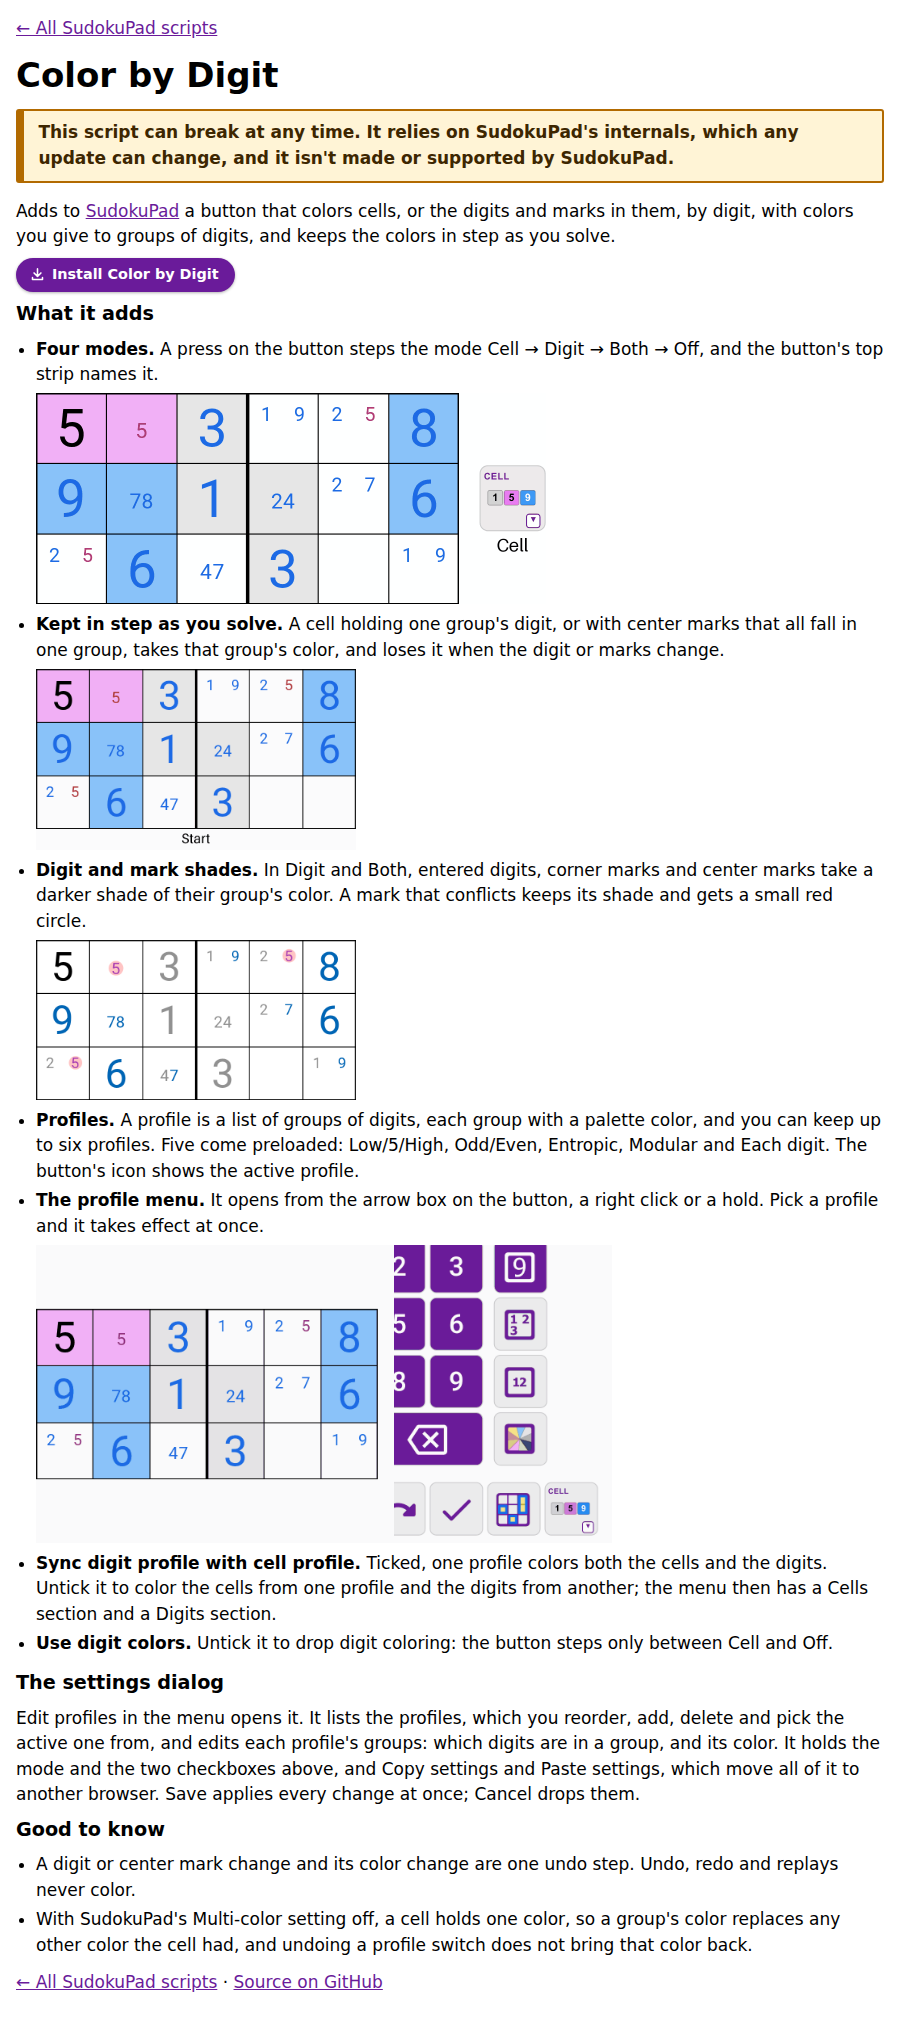
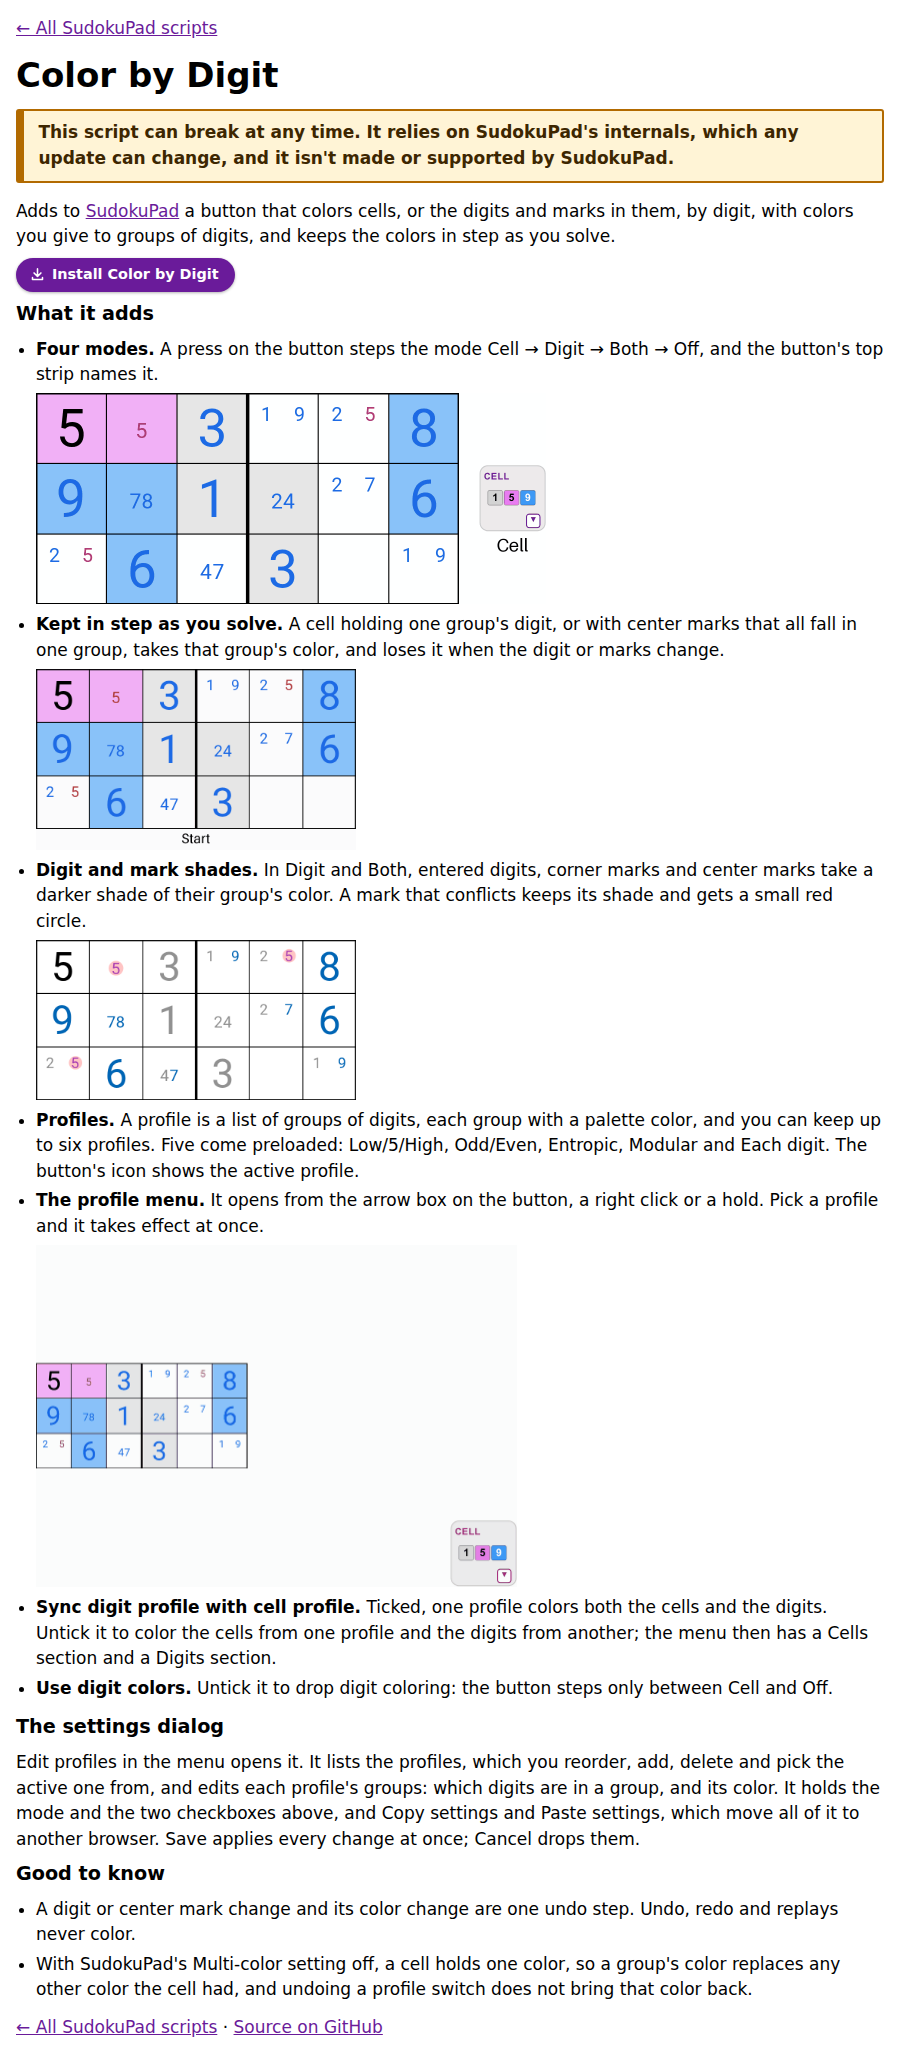
Menu GIF: crop the menu and the button on their own so no keypad control is cut (#317)

Changed region(s): [[0.0, 0.0, 0.9956, 0.998], [0.7467, 0.1559, 0.9956, 0.1871]]

diff --git a/site/color-by-digit.html b/site/color-by-digit.html
@@ -32,7 +32,7 @@
     </li>
     <li><strong>Profiles.</strong> A profile is a list of groups of digits, each group with a palette color, and you can keep up to six profiles. Five come preloaded: Low/5/High, Odd/Even, Entropic, Modular and Each digit. The button's icon shows the active profile.</li>
     <li><strong>The profile menu.</strong> It opens from the arrow box on the button, a right click or a hold. Pick a profile and it takes effect at once.
-      <img class="wide" src="https://raw.githubusercontent.com/caneff/sudokupad-scripts/main/docs/research/color-by-digit-details-menu.gif?v=38da70b" alt="An animation of two sudoku boxes beside the Color by Digit button, colored by the Low/5/High profile. The profile menu opens above the button from its arrow box, listing the five profiles with their group colors and Edit profiles at the bottom. Odd/Even is picked, the menu closes, and the boxes recolor at once to the Odd/Even groups" width="713" height="369">
+      <img class="wide" src="https://raw.githubusercontent.com/caneff/sudokupad-scripts/main/docs/research/color-by-digit-details-menu.gif?v=00c81e3" alt="An animation of two sudoku boxes beside the Color by Digit button, colored by the Low/5/High profile. The profile menu opens above the button from its arrow box, listing the five profiles with their group colors and Edit profiles at the bottom. Odd/Even is picked, the menu closes, and the boxes recolor at once to the Odd/Even groups" width="481" height="343">
     </li>
     <li><strong>Sync digit profile with cell profile.</strong> Ticked, one profile colors both the cells and the digits. Untick it to color the cells from one profile and the digits from another; the menu then has a Cells section and a Digits section.</li>
     <li><strong>Use digit colors.</strong> Untick it to drop digit coloring: the button steps only between Cell and Off.</li>
